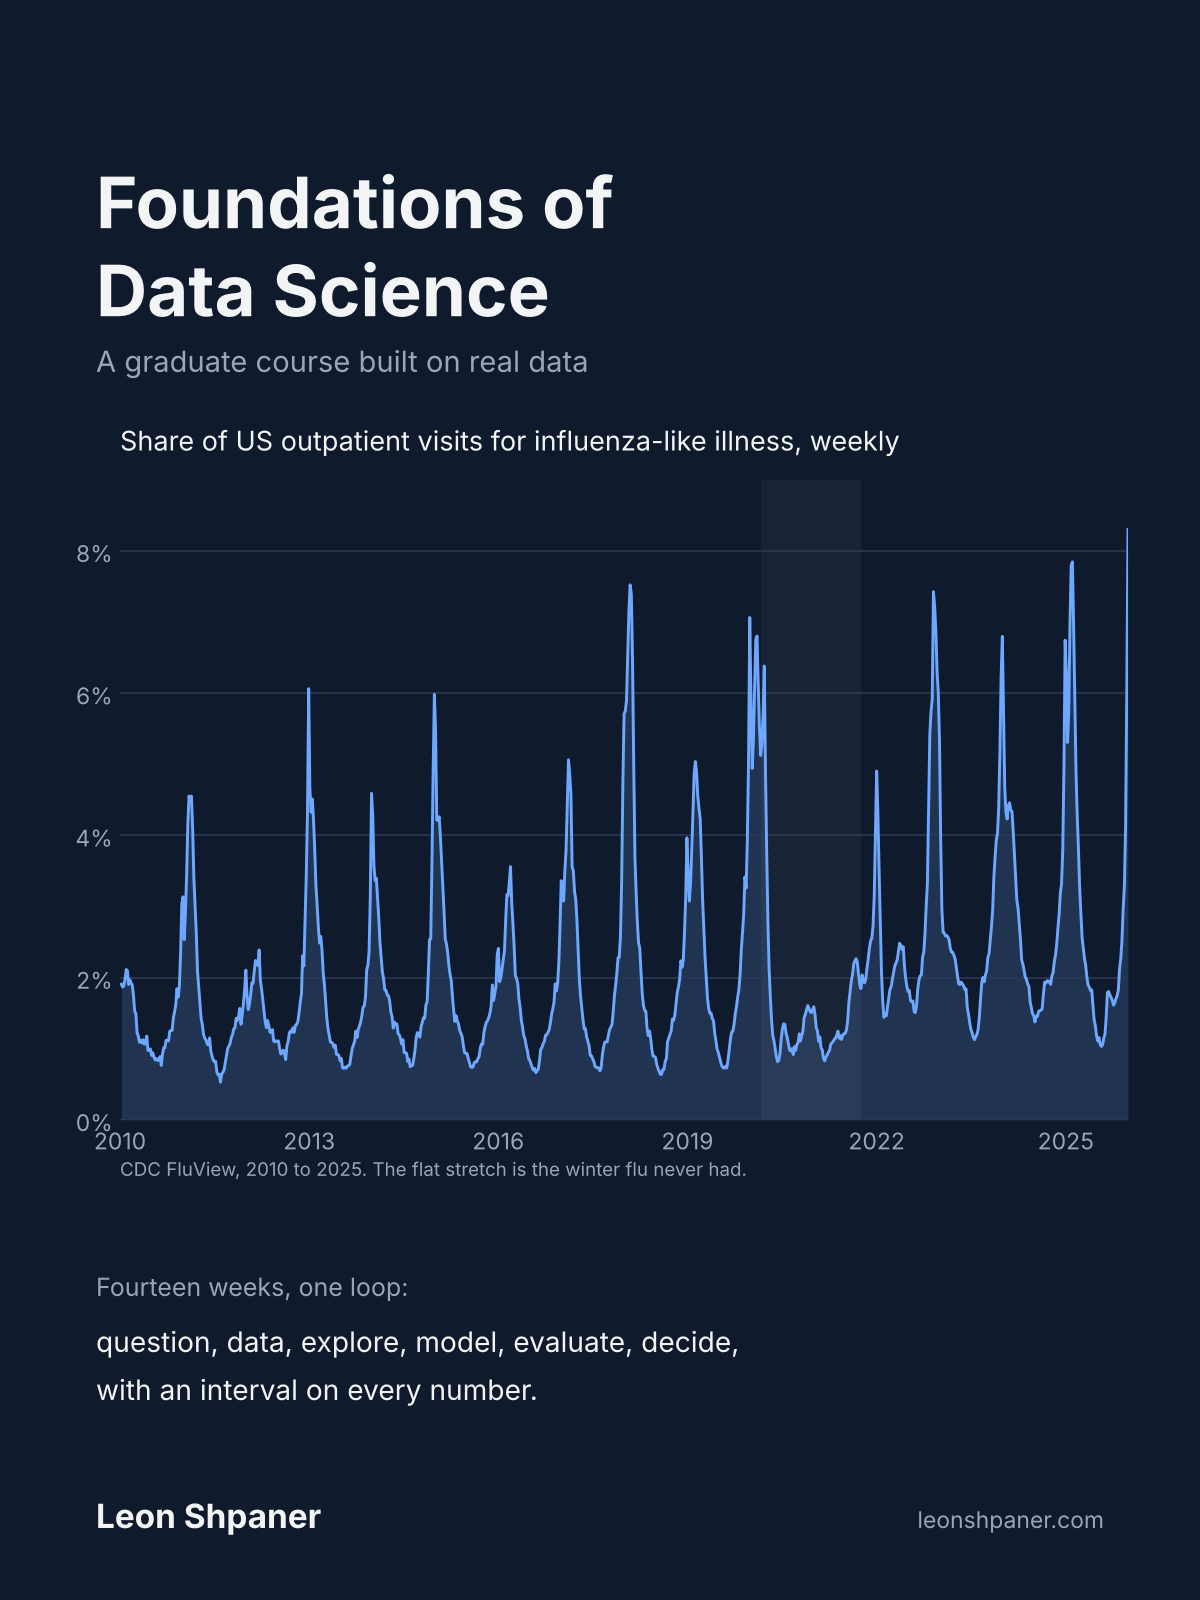
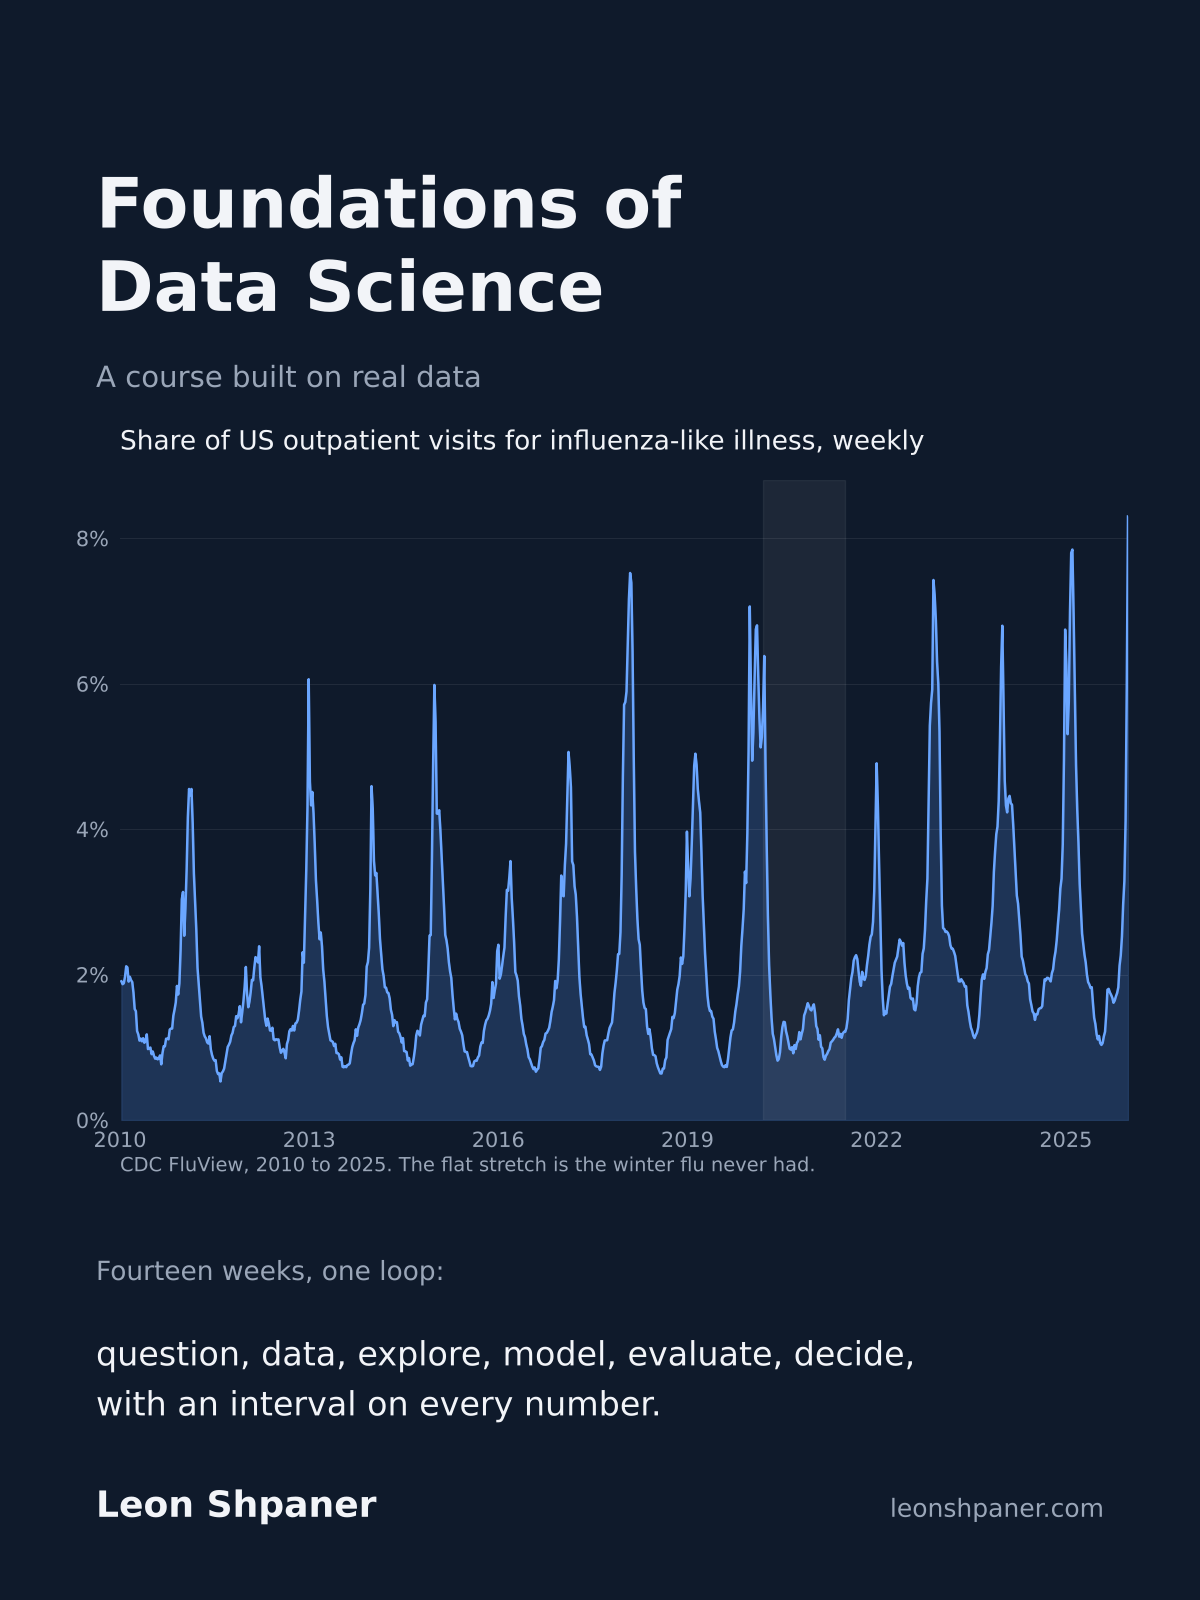
new cover

diff --git a/export_students.py b/export_students.py
@@ -1,0 +1,128 @@
+"""
+tools/export_students.py
+
+Copy the course repo into a student-facing directory, leaving out solution
+keys, quiz banks, data, environments, site build files, and git metadata.
+Run via `make export_students`; then commit and push from the student directory.
+"""
+
+import fnmatch
+import shutil
+import sys
+from pathlib import Path
+
+EXCLUDE_DIRS = {
+    ".git", "data", "figures", "quizzes", "tools", ".ipynb_checkpoints",
+    "__pycache__", "_site", "_freeze", ".quarto", ".jupyter_cache", ".ruff_cache",
+}
+EXCLUDE_GLOBS = [
+    "*solution_key*", "*venv*", "*:Zone.Identifier", ".env",
+    "_quarto.yml", "index.qmd", "styles.css", "*_files", "_metadata.yml",
+]
+
+STUDENT_README = """<p align="center">
+  <a href="https://lshpaner.github.io/fds_course/"><img src="cover.png" width="320" alt="Foundations of Data Science"></a>
+</p>
+
+# Foundations of Data Science: student materials
+
+Lecture notebooks, assignments, and the project brief for a Foundations of Data Science course, built around one real dataset
+(CDC NHANES 2017-2018) that you carry from first contact through a fairness audit, with a flu time series, a hospital contact network,
+and a text corpus for the later weeks.
+
+**Read the book:** https://lshpaner.github.io/fds_course/
+
+Author: Leon Shpaner, M.S. All materials are original and owned by the author.
+
+## Lectures
+
+| Week | Lecture | Run it |
+|---|---|---|
+| 1 | [What Data Science Is, and How We Work](https://lshpaner.github.io/fds_course/notebooks/week_01/week_01_intro.html) | [Colab](https://colab.research.google.com/github/lshpaner/fds_course_students/blob/main/notebooks/week_01/week_01_intro.ipynb) |
+| 2 | [Data Handling, Joins, and Missing Data](https://lshpaner.github.io/fds_course/notebooks/week_02/week_02_data_handling.html) | [Colab](https://colab.research.google.com/github/lshpaner/fds_course_students/blob/main/notebooks/week_02/week_02_data_handling.ipynb) |
+| 3 | [Statistics Recap](https://lshpaner.github.io/fds_course/notebooks/week_03/week_03_statistics_recap.html) | [Colab](https://colab.research.google.com/github/lshpaner/fds_course_students/blob/main/notebooks/week_03/week_03_statistics_recap.ipynb) |
+| 4 | [Exploratory Data Analysis](https://lshpaner.github.io/fds_course/notebooks/week_04/week_04_eda.html) | [Colab](https://colab.research.google.com/github/lshpaner/fds_course_students/blob/main/notebooks/week_04/week_04_eda.ipynb) |
+| 5 | [Visualization and Communication](https://lshpaner.github.io/fds_course/notebooks/week_05/week_05_visualization.html) | [Colab](https://colab.research.google.com/github/lshpaner/fds_course_students/blob/main/notebooks/week_05/week_05_visualization.ipynb) |
+| 6 | [Regression](https://lshpaner.github.io/fds_course/notebooks/week_06/week_06_regression.html) | [Colab](https://colab.research.google.com/github/lshpaner/fds_course_students/blob/main/notebooks/week_06/week_06_regression.ipynb) |
+| 7 | [Supervised Learning, Classification](https://lshpaner.github.io/fds_course/notebooks/week_07/week_07_classification.html) | [Colab](https://colab.research.google.com/github/lshpaner/fds_course_students/blob/main/notebooks/week_07/week_07_classification.ipynb) |
+| 8 | [Model Evaluation and Tradeoffs](https://lshpaner.github.io/fds_course/notebooks/week_08/week_08_evaluation.html) | [Colab](https://colab.research.google.com/github/lshpaner/fds_course_students/blob/main/notebooks/week_08/week_08_evaluation.ipynb) |
+| 9 | [Unsupervised Learning](https://lshpaner.github.io/fds_course/notebooks/week_09/week_09_unsupervised.html) | [Colab](https://colab.research.google.com/github/lshpaner/fds_course_students/blob/main/notebooks/week_09/week_09_unsupervised.ipynb) |
+| 10 | [Time Series Analysis](https://lshpaner.github.io/fds_course/notebooks/week_10/week_10_time_series.html) | [Colab](https://colab.research.google.com/github/lshpaner/fds_course_students/blob/main/notebooks/week_10/week_10_time_series.ipynb) |
+| 11 | [Social Network Analysis](https://lshpaner.github.io/fds_course/notebooks/week_11/week_11_networks.html) | [Colab](https://colab.research.google.com/github/lshpaner/fds_course_students/blob/main/notebooks/week_11/week_11_networks.ipynb) |
+| 12 | [Practical Use of Language Models](https://lshpaner.github.io/fds_course/notebooks/week_12/week_12_language_models.html) | [Colab](https://colab.research.google.com/github/lshpaner/fds_course_students/blob/main/notebooks/week_12/week_12_language_models.ipynb) |
+| 13 | [Ethics, Fairness, and Data](https://lshpaner.github.io/fds_course/notebooks/week_13/week_13_fairness.html) | [Colab](https://colab.research.google.com/github/lshpaner/fds_course_students/blob/main/notebooks/week_13/week_13_fairness.ipynb) |
+| 14 | [Project Presentations and Course Wrap-Up](https://lshpaner.github.io/fds_course/notebooks/week_14/week_14_presentations.html) | [Colab](https://colab.research.google.com/github/lshpaner/fds_course_students/blob/main/notebooks/week_14/week_14_presentations.ipynb) |
+
+Project: [brief](project/project_brief.md), [rubric](project/rubric.md). Schedule and grading: [course map](docs/course_map.md).
+
+## Running the notebooks
+
+**Colab (no setup).** Use the Colab links above, or open any notebook in `assignments/`; the first cell clones this repo,
+installs the requirements, and fetches only the data that notebook needs.
+
+**Locally.** Python 3.11 or 3.12.
+
+```bash
+make create_venv && source .venv/bin/activate
+make data_gen        # fetch raw data into data/raw/
+make preprocess      # build data/processed/nhanes.parquet
+make lab
+```
+
+## Layout
+
+```
+notebooks/      one folder per week, lecture notebooks
+assignments/    one folder per week, homework notebooks
+project/        project brief and rubric
+docs/           course map
+core/           dataset registry and loaders
+data_gen.py     fetch raw data (typer CLI)
+preprocessing.py cleaning and joins
+```
+
+## Data
+
+All public: CDC NHANES 2017-2018, CDC FluView weekly ILI via CMU Delphi Epidata, the SocioPatterns hospital
+ward contact network via Netzschleuder, and scikit-learn's 20 Newsgroups. `data/` is empty in this repo;
+`make data_gen` or any notebook's setup cell fills it.
+"""
+
+
+def _ignore(directory: str, names: list[str]) -> set[str]:
+    skip = set()
+    for n in names:
+        if n in EXCLUDE_DIRS or any(fnmatch.fnmatch(n, g) for g in EXCLUDE_GLOBS):
+            skip.add(n)
+    return skip
+
+
+def main(src: str, dst: str) -> None:
+    src_p, dst_p = Path(src).resolve(), Path(dst).resolve()
+    if dst_p.exists():
+        # keep the student repo's own .git; wipe everything else so deletions propagate
+        for child in dst_p.iterdir():
+            if child.name == ".git":
+                continue
+            shutil.rmtree(child) if child.is_dir() else child.unlink()
+    shutil.copytree(src_p, dst_p, ignore=_ignore, dirs_exist_ok=True)
+    # students need an empty data/ folder for the setup cells
+    (dst_p / "data").mkdir(exist_ok=True)
+    (dst_p / "data" / ".gitkeep").touch()
+    (dst_p / "README.md").write_text(STUDENT_README)
+    # belt and braces: strip outputs from every exported notebook
+    import json
+    for nb_path in dst_p.rglob("*.ipynb"):
+        nb = json.loads(nb_path.read_text())
+        for cell in nb["cells"]:
+            if cell["cell_type"] == "code":
+                cell["outputs"], cell["execution_count"] = [], None
+        nb_path.write_text(json.dumps(nb, indent=1, ensure_ascii=False) + "\n")
+    leaked = [p for p in dst_p.rglob("*solution_key*")] + [p for p in dst_p.rglob("quiz_*.md")]
+    if leaked:
+        raise SystemExit(f"refusing: instructor files in student copy: {leaked}")
+    print(f"student copy written to {dst_p}")
+
+
+if __name__ == "__main__":
+    main(sys.argv[1], sys.argv[2])

diff --git a/course_map.md b/course_map.md
@@ -1,0 +1,36 @@
+# Foundations of Data Science: Course Map
+
+Upper-division undergraduate or graduate level, one meeting per week, online or in person. Materials are Python/Jupyter (Colab-ready). Grading: assignments 30%, quizzes 25%, project 35%, participation 10%.
+
+A single real dataset, the CDC's NHANES 2017-2018 survey, runs from week 1 through week 9 and returns in week 13, so students build one pipeline and keep extending it. Weeks 10 through 12 bring in a weekly flu series, a hospital contact network, and a text corpus.
+
+| Wk | Topic | Dataset | Libraries introduced | Notebook | Assessment |
+|---:|---|---|---|---|---|
+| 1 | What data science is; the question/data/explore/model/decide loop; project brief | NHANES | pandas, eda_toolkit | `week_01_intro` | |
+| 2 | Data handling: joins, skip patterns, missingness mechanisms, imputation | NHANES (4 components) | eda_toolkit | `week_02_data_handling` | HW1 posted |
+| 3 | Statistics recap: distributions, CIs, bootstrap, survey weights, Table 1, effect sizes | NHANES | eda_toolkit, scipy | `week_03_statistics_recap` | HW1 due |
+| 4 | Exploratory data analysis and confounding | NHANES | eda_toolkit | `week_04_eda` | Quiz 1; project problem statement |
+| 5 | Visualization and communication | NHANES | matplotlib, seaborn | `week_05_visualization` | HW2 posted |
+| 6 | Regression: adjusted comparisons, interactions, diagnostics, ridge | NHANES (SBP) | statsmodels, model_tuner, model_metrics | `week_06_regression` | HW2 due; Quiz 2; project pitches |
+| 7 | Classification: logistic regression, trees, forests, boosting | NHANES (diabetes) | model_tuner, model_metrics, xgboost | `week_07_classification` | HW3 posted |
+| 8 | Evaluation: cutoffs, ROC/PR, DeLong, calibration, bootstrap, the screening rule | NHANES (diabetes) | model_metrics, model_tuner | `week_08_evaluation` | HW3 due; Quiz 3 |
+| 9 | Unsupervised: k-means, PCA, stability, hierarchical | NHANES | scikit-learn | `week_09_unsupervised` | HW4 posted |
+| 10 | Time series: decomposition, autocorrelation, time-based splits, Holt-Winters, Fourier regression | CDC FluView weekly ILI | statsmodels | `week_10_time_series` | HW4 due; Quiz 4; HW5 posted |
+| 11 | Networks: centrality, mixing, communities, spreading, temporal structure | SocioPatterns hospital ward | networkx | `week_11_networks` | |
+| 12 | Language models: TF-IDF, embeddings, zero-shot prompting, evaluation discipline | 20 Newsgroups subset | scikit-learn, openai (optional) | `week_12_language_models` | HW5 due; Quiz 5; HW6 posted |
+| 13 | Ethics and fairness: audit of the week 8 model by group | NHANES (diabetes) | equiboots | `week_13_fairness` | HW7 posted |
+| 14 | Project presentations | | | | Project; HW6, HW7 due |
+
+Guest lectures: 30-minute openers in weeks 6 through 12, speaker TBD.
+
+## Assignments
+
+| | Topic | Data | Status |
+|---|---|---|---|
+| HW1 | Joins and skip-pattern missingness | NHANES SMQ + BPQ | written, with solution key |
+| HW2 | EDA findings log and two charts | student's project data | brief in week 5 notebook |
+| HW3 | Regression: crude vs adjusted, interaction, diagnostics, ridge | project or NHANES SBP | brief in week 6 notebook |
+| HW4 | Full classifier evaluation with a recommendation | project or NHANES | brief in week 8 notebook |
+| HW5 | Decompose and forecast a weekly/monthly series; beat seasonal naive | project or FluView region | brief in week 10 notebook |
+| HW6 | Text routing with an extension; cost per document | project or newsgroups | brief in week 12 notebook |
+| HW7 | Re-run the fairness audit with HbA1c as the label | NHANES GHB_J | brief in week 13 notebook |

diff --git a/docs/course_map.md b/docs/course_map.md
@@ -1,6 +1,6 @@
 # Foundations of Data Science: Course Map
 
-Graduate level, one meeting per week, online or in person. Materials are Python/Jupyter (Colab-ready). Grading: assignments 30%, quizzes 25%, project 35%, participation 10%.
+Upper-division undergraduate or graduate level, one meeting per week, online or in person. Materials are Python/Jupyter (Colab-ready). Grading: assignments 30%, quizzes 25%, project 35%, participation 10%.
 
 A single real dataset, the CDC's NHANES 2017-2018 survey, runs from week 1 through week 9 and returns in week 13, so students build one pipeline and keep extending it. Weeks 10 through 12 bring in a weekly flu series, a hospital contact network, and a text corpus.
 

diff --git a/README.md b/README.md
@@ -4,7 +4,7 @@
 
 # Foundations of Data Science: student materials
 
-Lecture notebooks, assignments, and the project brief for a graduate Foundations of Data Science course, built around one real dataset
+Lecture notebooks, assignments, and the project brief for a Foundations of Data Science course, built around one real dataset
 (CDC NHANES 2017-2018) that you carry from first contact through a fairness audit, with a flu time series, a hospital contact network,
 and a text corpus for the later weeks.
 
